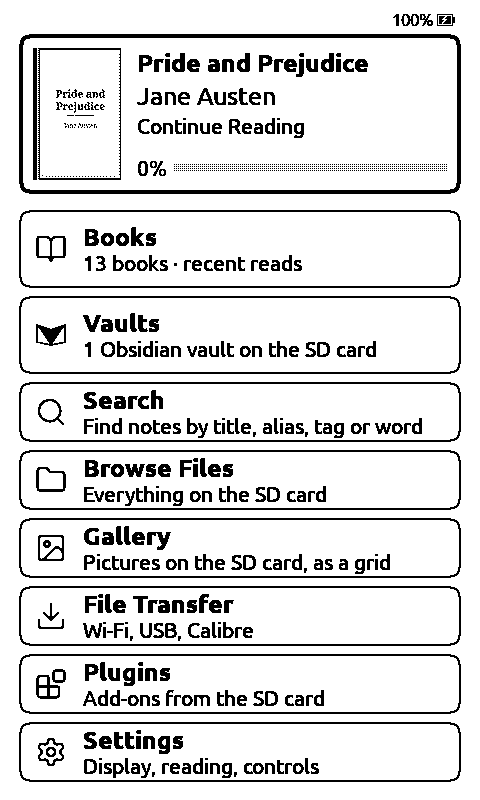
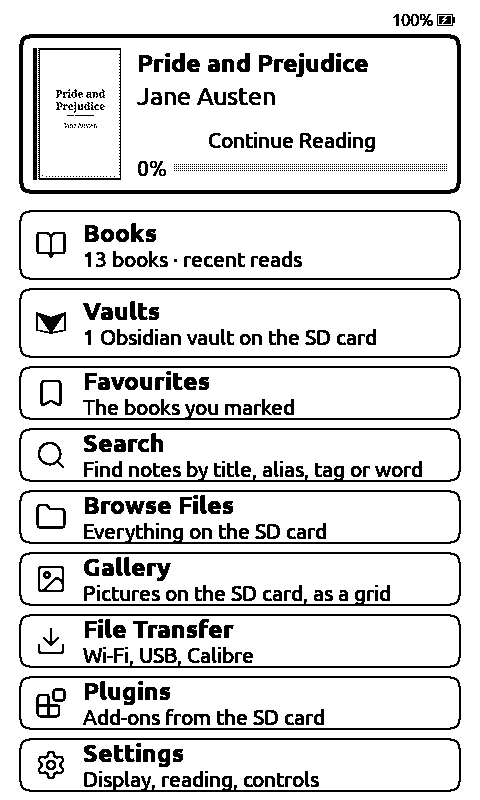
Site: new screenshots and feature lines (flashcards, search in book, PDFs, lock), and a site-only deploy script

Changed region(s): [[0.0312, 0.2812, 0.9688, 1.0], [0.2812, 0.125, 0.7812, 0.1875]]

diff --git a/site/index.html b/site/index.html
@@ -519,13 +519,18 @@
           <a href="shot-home.png" class="shot"><img src="shot-home.png" width="480" height="800" loading="lazy" alt="The VaultInk home screen"></a>
           <figcaption>
             <h3>A calm home screen</h3>
-            <p>The book you're reading on top, then Books, Vaults, Files, Transfer, Plugins and
-              Settings. Interface in English and Greek, with more languages on the way.</p>
+            <p>The book you're reading on top, then Books, Vaults, Favourites, Search, Files, Gallery,
+              Transfer, Plugins and Settings. Interface in English and Greek, with more languages on the way.</p>
           </figcaption>
         </figure>
       </div>
 
       <ul class="list">
+        <li>Flashcards from your notes: tag a note, write <code>Front::Back</code>, review with spaced repetition.</li>
+        <li>Search in a book: a word or phrase, with the page of every hit.</li>
+        <li>PDFs open as reflowing text, Greek included. No pictures, tables or scans.</li>
+        <li>A PIN or corner lock, with your name and phone on the lock and sleep screens.</li>
+        <li>A book's highlights written to a note in your vault.</li>
         <li>Canvas files: pan, zoom, tap a card to open its note.</li>
         <li>Backlinks and recent notes for every vault.</li>
         <li>Quick settings on a swipe down: light, warmth, night mode, refresh, sleep.</li>
@@ -544,6 +549,10 @@
         <figure><a href="shot-quick.png"><img src="shot-quick.png" width="480" height="800" loading="lazy" alt="Quick settings"></a><figcaption class="sans">Quick settings</figcaption></figure>
         <figure><a href="shot-authors.png"><img src="shot-authors.png" width="480" height="800" loading="lazy" alt="Books by author, as folders"></a><figcaption class="sans">Authors as folders</figcaption></figure>
         <figure><a href="shot-comic.png"><img src="shot-comic.png" width="480" height="800" loading="lazy" alt="A converted comic on the reader"></a><figcaption class="sans">A comic</figcaption></figure>
+        <figure><a href="shot-flashcards.png"><img src="shot-flashcards.png" width="480" height="800" loading="lazy" alt="A flashcard with its answer and four buttons"></a><figcaption class="sans">Flashcards</figcaption></figure>
+        <figure><a href="shot-search-book.png"><img src="shot-search-book.png" width="480" height="800" loading="lazy" alt="Search in a book, results with their pages"></a><figcaption class="sans">Search in a book</figcaption></figure>
+        <figure><a href="shot-pdf.png"><img src="shot-pdf.png" width="480" height="800" loading="lazy" alt="A PDF read as text"></a><figcaption class="sans">A PDF as text</figcaption></figure>
+        <figure><a href="shot-lock.png"><img src="shot-lock.png" width="480" height="800" loading="lazy" alt="The PIN lock screen with an owner's name and phone"></a><figcaption class="sans">Lock screen</figcaption></figure>
         <figure><a href="shot-settings.png"><img src="shot-settings.png" width="480" height="800" loading="lazy" alt="Settings"></a><figcaption class="sans">Settings</figcaption></figure>
         <figure><a href="shot-home-el.png"><img src="shot-home-el.png" width="480" height="800" loading="lazy" alt="The home screen in Greek"></a><figcaption class="sans">In Greek</figcaption></figure>
       </div>
